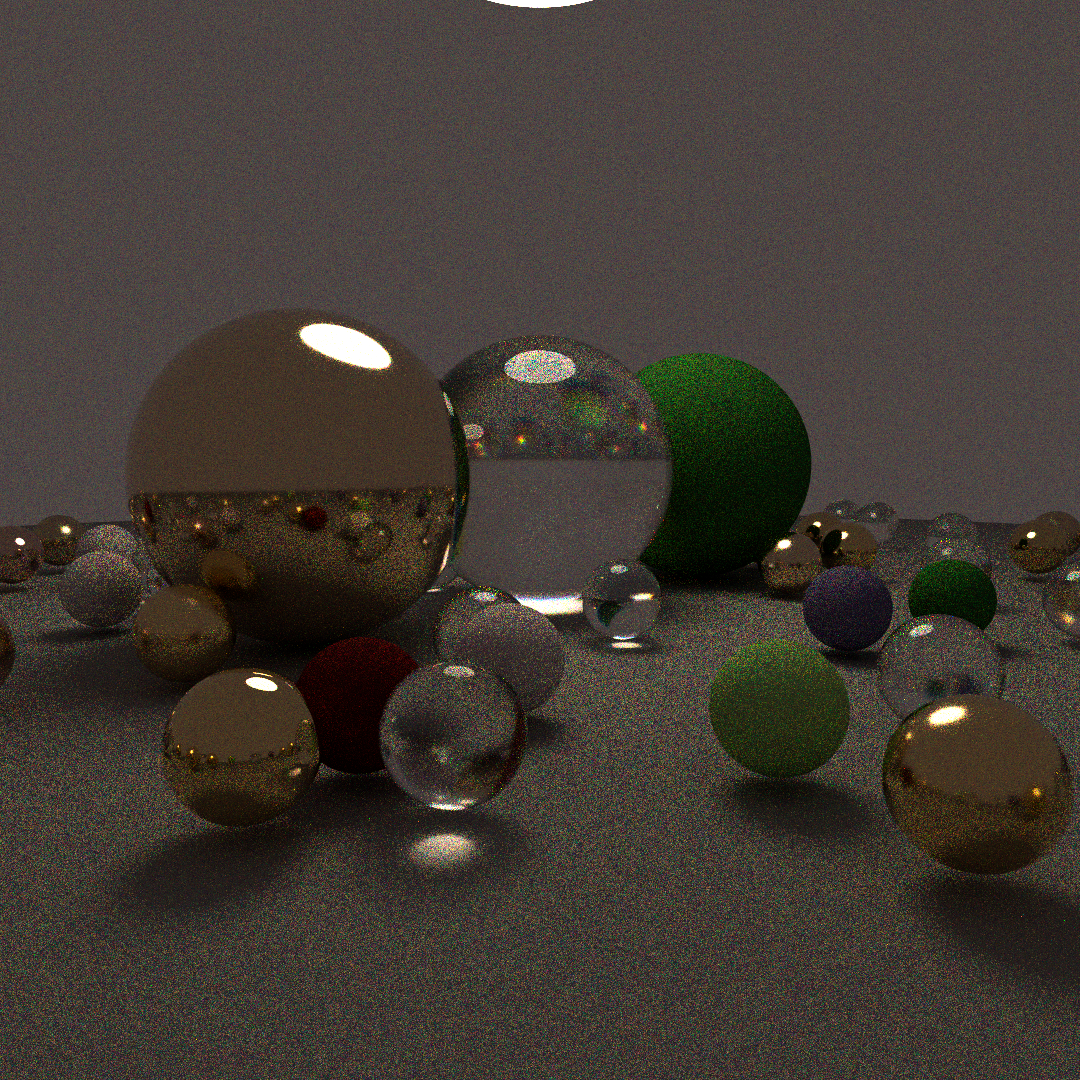
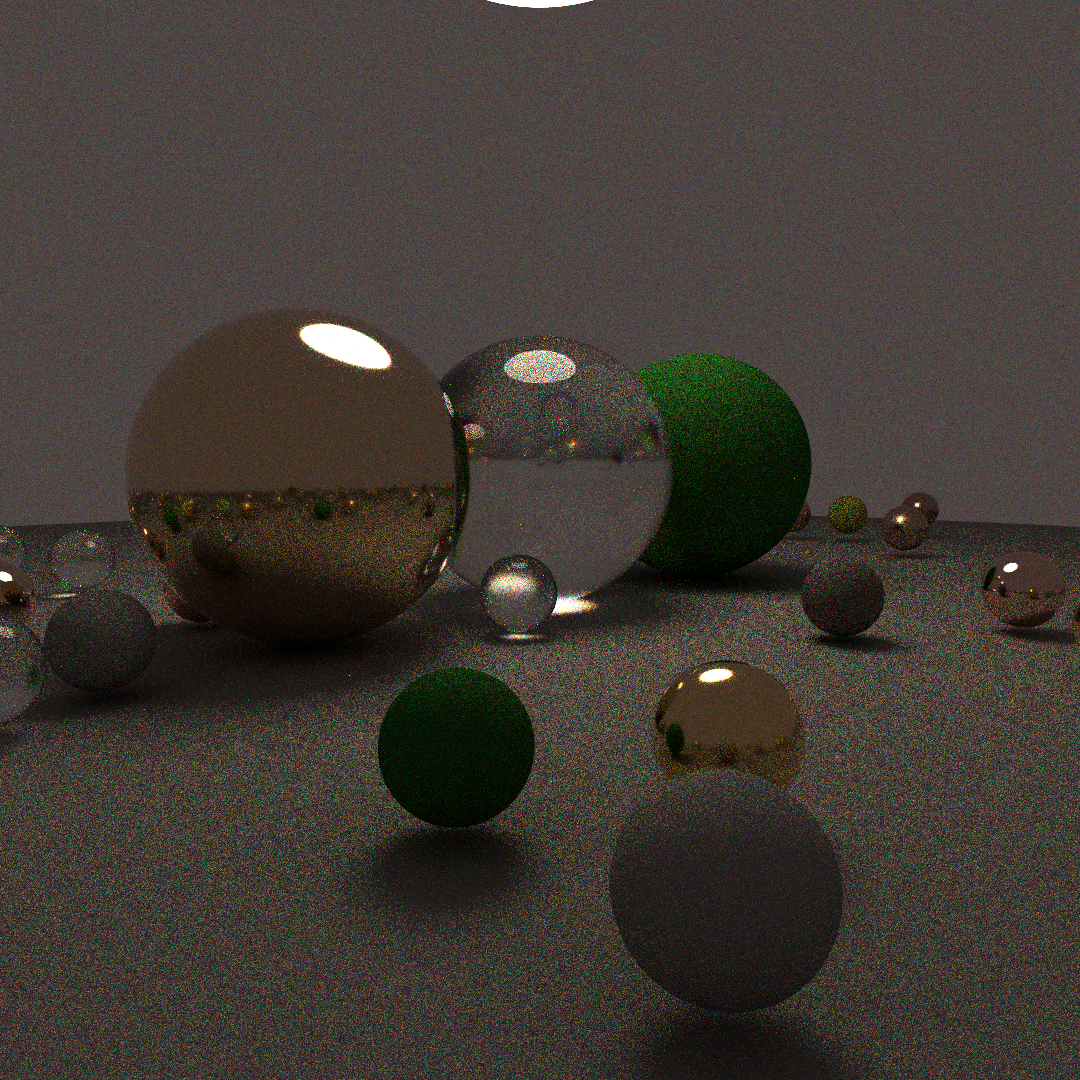
add structopt arg for random spheres

diff --git a/src/main.rs b/src/main.rs
@@ -190,6 +190,8 @@ struct Opt {
     pub bounces: usize,
     #[structopt(long, default_value = "0.18")]
     pub key_value: f32,
+    #[structopt(long)]
+    pub add_random_spheres: bool,
     pub scene_file: String,
 }
 
@@ -226,66 +228,68 @@ fn main() {
     //     // MaterialEnum::ConstPassthrough(ConstPassthrough::new(white.clone())),
     // ];
 
-    let new_materials_count = 30;
-    // let mut new_materials = Vec::new();
-    generate_and_push_random_materials(
-        &mut scene.materials,
-        new_materials_count,
-        EXTENDED_VISIBLE_RANGE,
-        false,
-        1.0,
-    );
+    if opts.add_random_spheres {
+        let new_materials_count = 30;
+        // let mut new_materials = Vec::new();
+        generate_and_push_random_materials(
+            &mut scene.materials,
+            new_materials_count,
+            EXTENDED_VISIBLE_RANGE,
+            false,
+            1.0,
+        );
 
-    let nonlight_materials = scene
-        .materials
-        .iter()
-        .enumerate()
-        .filter_map(|(id, e)| {
-            if matches!(e, MaterialEnum::ConstLambertian(_) | MaterialEnum::GGX(_)) {
-                Some(id)
-            } else {
-                None
-            }
-        })
-        .collect::<Vec<_>>();
-    let bag_size_of_random_materials = nonlight_materials.len();
+        let nonlight_materials = scene
+            .materials
+            .iter()
+            .enumerate()
+            .filter_map(|(id, e)| {
+                if matches!(e, MaterialEnum::ConstLambertian(_) | MaterialEnum::GGX(_)) {
+                    Some(id)
+                } else {
+                    None
+                }
+            })
+            .collect::<Vec<_>>();
+        let bag_size_of_random_materials = nonlight_materials.len();
 
-    let mut spheres_to_add: Vec<Sphere> = Vec::new();
-    spheres_to_add.push(Sphere::new(4.0, Point3::new(8.0, 0.0, 4.1), 0));
-    spheres_to_add.push(Sphere::new(4.0, Point3::new(0.0, 0.0, 4.1), 0));
-    spheres_to_add.push(Sphere::new(4.0, Point3::new(-8.0, 0.0, 4.1), 0));
-    for _ in 0..100 {
-        let material_id = nonlight_materials
-            [(rand::random::<f32>() * bag_size_of_random_materials as f32) as usize];
-        loop {
-            let x = (rand::random::<f32>() - 0.5) * 70.0;
-            let y = (rand::random::<f32>() - 0.5) * 70.0;
+        let mut spheres_to_add: Vec<Sphere> = Vec::new();
+        spheres_to_add.push(Sphere::new(4.0, Point3::new(8.0, 0.0, 4.1), 0));
+        spheres_to_add.push(Sphere::new(4.0, Point3::new(0.0, 0.0, 4.1), 0));
+        spheres_to_add.push(Sphere::new(4.0, Point3::new(-8.0, 0.0, 4.1), 0));
+        for _ in 0..100 {
+            let material_id = nonlight_materials
+                [(rand::random::<f32>() * bag_size_of_random_materials as f32) as usize];
+            loop {
+                let x = (rand::random::<f32>() - 0.5) * 70.0;
+                let y = (rand::random::<f32>() - 0.5) * 70.0;
 
-            let mut overlapping = false;
-            let candidate_sphere = Sphere::new(1.0, Point3::new(x, y, 1.1), material_id);
+                let mut overlapping = false;
+                let candidate_sphere = Sphere::new(1.0, Point3::new(x, y, 1.1), material_id);
 
-            for sphere in &spheres_to_add {
-                if (candidate_sphere.origin - sphere.origin).norm()
-                    < sphere.radius + candidate_sphere.radius
-                {
-                    // spheres are overlapping
-                    overlapping = true;
+                for sphere in &spheres_to_add {
+                    if (candidate_sphere.origin - sphere.origin).norm()
+                        < sphere.radius + candidate_sphere.radius
+                    {
+                        // spheres are overlapping
+                        overlapping = true;
+                        break;
+                    }
+                }
+                if !overlapping {
+                    spheres_to_add.push(candidate_sphere);
                     break;
                 }
             }
-            if !overlapping {
-                spheres_to_add.push(candidate_sphere);
-                break;
-            }
         }
+        spheres_to_add.reverse();
+        // clear the previously added placeholder spheres, truncating down to 100
+        spheres_to_add.truncate(100);
+        // add new spheres to the scene
+        scene
+            .primitives
+            .extend(spheres_to_add.drain(..).map(|e| e.into()));
     }
-    spheres_to_add.reverse();
-    // clear the previously added placeholder spheres, truncating down to 100
-    spheres_to_add.truncate(100);
-    // add new spheres to the scene
-    scene
-        .primitives
-        .extend(spheres_to_add.drain(..).map(|e| e.into()));
 
     let camera = ProjectiveCamera::new(
         Point3::new(-20.0, 20.0, 5.0),
